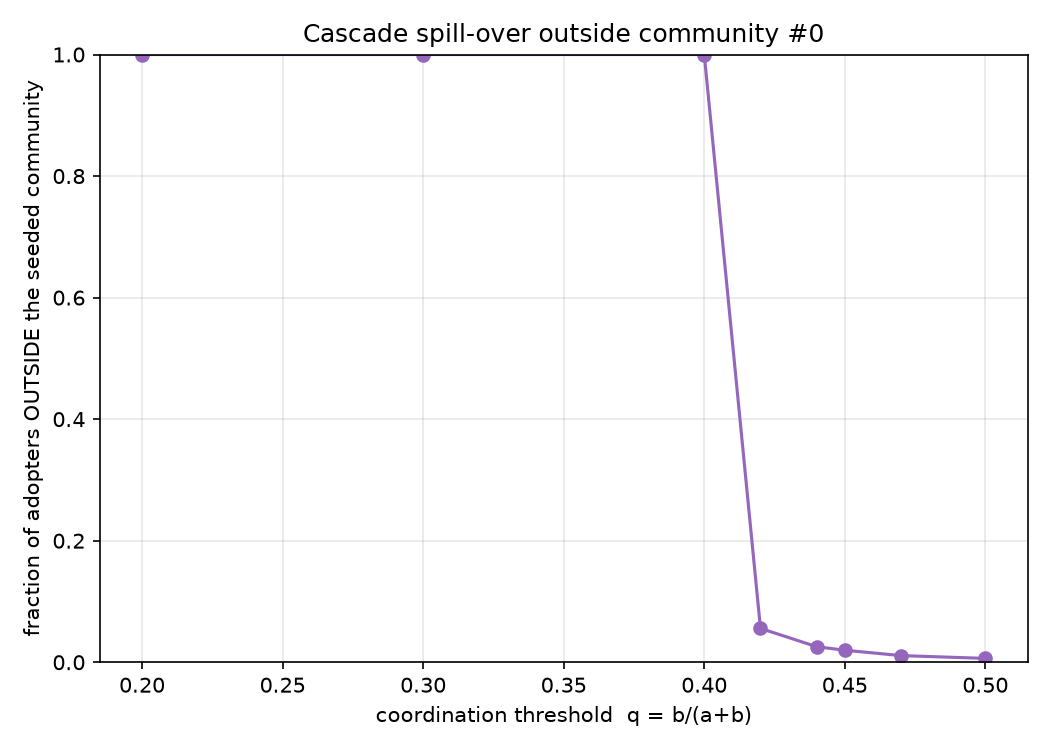
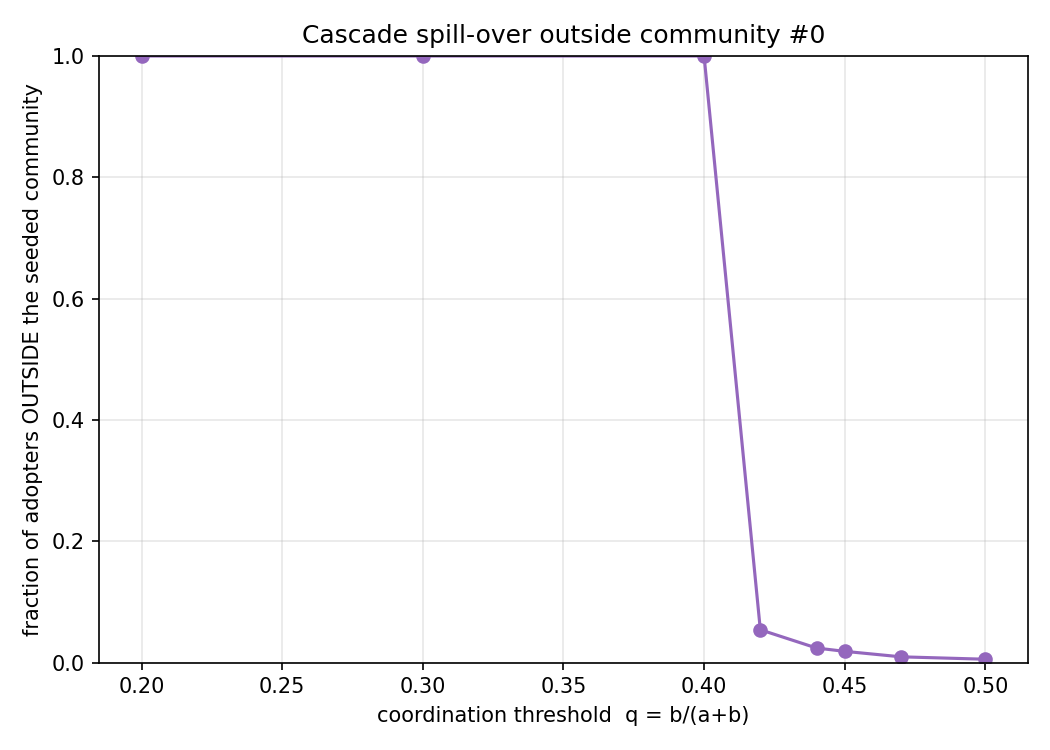
aggiornamento report

diff --git a/report/Part4OpenQuestion.tex b/report/Part4OpenQuestion.tex
@@ -17,24 +17,24 @@ SNA is combined with text mining, exploiting the post layer collected during cra
 \end{enumerate}
 
 \subsection{Results}
-The seven largest communities map onto sharply distinct disciplines (Table~\ref{tab:topics}): politics/news (trump, news, iran), climate/energy (climate, energy, ocean), chemistry/biology (nature, cell, chemistry), neuroscience (brain, neuroscience), conservation/ecology (species, biodiversity, marine), public health (health, vaccine, ebola) and space (nasa, space, moon). This structure--topic correspondence is only partial, however: a purely text-based clustering agrees with the Louvain partition at $\mathrm{NMI}=0.23$ and $\mathrm{ARI}=0.13$, clearly above chance yet far from identical, so following and talking are related but not interchangeable. Topical cohesion also varies by community: the tightest echo chambers are the specialised neuroscience ($0.071$) and conservation ($0.068$) clusters, the loosest the cross-cutting politics/news one ($0.054$). Connected accounts are markedly more similar: same-community pairs are $1.38\times$ more topically similar than cross-community pairs ($0.060$ vs $0.043$), and the endpoints of real follow edges are $1.83\times$ more similar than random non-edges ($0.086$ vs $0.047$). Both gaps are highly significant (one-sided Mann--Whitney $U$, $p<10^{-80}$ for communities and $p<10^{-200}$ for edges), and the full distributions (Figure~\ref{fig:homophily}) show the same ordering. The effect is not an artefact of the vectorisation: shrinking or enlarging the TF-IDF vocabulary from $3{,}000$ to $1{,}500$ or $5{,}000$ terms leaves both ratios essentially unchanged ($1.34$--$1.36\times$ for communities and $1.72$--$1.90\times$ for edges).
+The seven largest communities map onto sharply distinct disciplines (Table~\ref{tab:topics}): politics/news (trump, news, iran), climate/energy (climate, energy, ocean), chemistry/biology (nature, cell, chemistry), neuroscience (brain, neuroscience), conservation/ecology (species, biodiversity, marine), public health (health, vaccine, ebola) and space (nasa, space, moon). This structure--topic correspondence is only partial, however: a purely text-based clustering agrees with the Louvain partition at $\mathrm{NMI}=0.23$ and $\mathrm{ARI}=0.13$, clearly above chance yet far from identical, so following and talking are related but not interchangeable. Topical cohesion also varies by community (Table~\ref{tab:topics}, last column): the tightest echo chambers are the specialised neuroscience ($0.069$) and conservation ($0.068$) clusters, the loosest the cross-cutting politics/news ($0.053$) and space ($0.056$) ones. Connected accounts are markedly more similar: same-community pairs are $1.38\times$ more topically similar than cross-community pairs ($0.060$ vs $0.043$), and the endpoints of real follow edges are $1.83\times$ more similar than random non-edges ($0.086$ vs $0.047$). Both gaps are highly significant (one-sided Mann--Whitney $U$, $p<10^{-80}$ for communities and $p<10^{-200}$ for edges), and the full distributions (Figure~\ref{fig:homophily}) show the same ordering. The effect is not an artefact of the vectorisation: shrinking or enlarging the TF-IDF vocabulary from $3{,}000$ to $1{,}500$ or $5{,}000$ terms leaves both ratios essentially unchanged ($1.34$--$1.36\times$ for communities and $1.72$--$1.90\times$ for edges).
 
 \begin{table}[h]
   \centering\footnotesize
   \setlength{\tabcolsep}{4pt}
-  \caption{Representative TF-IDF terms of the seven largest Louvain communities, from the accounts' post text.}
+  \caption{Representative TF-IDF terms and intra-community topical cohesion (mean pairwise post-content cosine similarity) of the seven largest Louvain communities.}
   \label{tab:topics}
-  \begin{tabular}{ll}
+  \begin{tabular}{llc}
     \toprule
-    Community (topic) & Top TF-IDF terms \\
+    Community (topic) & Top TF-IDF terms & Cohesion \\
     \midrule
-    politics/news        & trump, news, iran \\
-    climate/energy       & climate, energy, ocean \\
-    chemistry/biology    & nature, cell, chemistry \\
-    neuroscience         & brain, neuroscience \\
-    conservation/ecology & species, marine, biodiversity \\
-    public health        & health, vaccine, ebola \\
-    space                & nasa, space, moon \\
+    politics/news        & trump, news, iran             & 0.053 \\
+    climate/energy       & climate, energy, ocean        & 0.064 \\
+    chemistry/biology    & nature, cell, chemistry       & 0.066 \\
+    neuroscience         & brain, neuroscience           & 0.069 \\
+    conservation/ecology & species, marine, biodiversity & 0.068 \\
+    public health        & health, vaccine, ebola        & 0.067 \\
+    space                & nasa, space, moon             & 0.056 \\
     \bottomrule
   \end{tabular}
 \end{table}

diff --git a/report/Part2NetworkCharacterization.tex b/report/Part2NetworkCharacterization.tex
@@ -49,7 +49,7 @@ The degree assortativity coefficient is slightly negative ($-0.07$), so the netw
 Estimated on the giant component via sampled BFS, the average shortest-path length is $\approx 2.23$ and the diameter (lower bound) is $\approx 4$. Despite 15{,}000 nodes, any two accounts are on average little more than two hops apart: the network is markedly small-world. The figure is close to the analytical ER estimate $\ln n / \ln \langle k\rangle \approx 1.8$, confirming that the high density and the hubs produce very short paths, a structural prerequisite for fast information diffusion (Section~\ref{sec:part3}).
 
 \subsection{Centrality analysis}
-Degree, betweenness (sampled), PageRank and eigenvector centrality largely agree on the top accounts (Table~\ref{tab:centrality}), the main exception being eigenvector centrality, which -- rewarding ties to other central nodes rather than raw popularity -- ranks the political hub \texttt{aoc} first and elevates journalism accounts such as \texttt{jamellebouie}. The platform account \texttt{bsky.app} tops the degree, betweenness and PageRank rankings, and overwhelmingly so for betweenness ($0.158$ vs $0.019$ for the runner-up), because almost every user follows it: it behaves as a global, non-thematic hub and could legitimately be treated as an outlier and removed. Below it appear the seed accounts (\texttt{carlbergstrom}, \texttt{science.org}, \texttt{standupforscience}) together with science journalists and outlets (\texttt{edyong209}, \texttt{nytimes.com}, \texttt{nature}). Notably, \texttt{science.org} climbs in the betweenness ranking, signalling a bridging role between otherwise separated thematic communities. The recurrence of political (\texttt{aoc}) and journalistic accounts among the most central nodes already hints at the overlap between science, journalism and politics on the platform.
+Degree, betweenness (sampled), PageRank and eigenvector centrality largely agree on the top accounts (Table~\ref{tab:centrality}), the main exception being eigenvector centrality, which -- rewarding ties to other central nodes rather than raw popularity -- ranks the political hub \texttt{aoc} first and elevates journalism accounts such as \texttt{jamellebouie}. The platform account \texttt{bsky.app} tops the degree, betweenness and PageRank rankings, and overwhelmingly so for betweenness ($0.158$ vs $0.019$ for the runner-up), because almost every user follows it: it behaves as a global, non-thematic hub and could legitimately be treated as an outlier and removed. Once it is set aside and the centralities are recomputed, the ranking is led by the seed academic \texttt{carlbergstrom} and by political, journalism and outlet hubs (\texttt{aoc}, \texttt{edyong209}, \texttt{nytimes.com}, the astronomer \texttt{astrokatie.com}, \texttt{science.org}), confirming that beyond the platform account centrality is dominated by academics, science journalists and outlets. Notably, \texttt{science.org} climbs in the betweenness ranking, signalling a bridging role between otherwise separated thematic communities. The recurrence of political (\texttt{aoc}) and journalistic accounts among the most central nodes already hints at the overlap between science, journalism and politics on the platform.
 
 
 \subsection{Comparison with ER}
@@ -103,6 +103,9 @@ Louvain yields the best partition (9 communities, modularity $0.428$). Infomap f
 \subsection{Agreement}
 NMI/ARI confirm the picture: Louvain vs Infomap show moderate agreement (NMI $=0.455$, ARI $=0.200$), they capture the same
 backbone at different resolutions, whereas any comparison with the degenerate LP partition is $0$.
+
+\subsection{Robustness}
+Being a stochastic heuristic, Louvain was validated over 10 independent runs: it consistently returns $8$--$9$ communities with modularity $0.426\pm0.002$ (range $0.422$--$0.428$), and the partitions agree pairwise at $\mathrm{NMI}=0.85$. The modular structure is therefore stable across runs, so the partition adopted here (and released with the data) is representative rather than a lucky draw.
 
 \subsection{Semantic interpretation}
 Using node attributes (bio, display name),

diff --git a/report/Part3NetworkManipulationAndAnalysis.tex b/report/Part3NetworkManipulationAndAnalysis.tex
@@ -77,8 +77,9 @@ The novel, semantic ingredient uses the text-derived topical groups. Fixing $q=0
 
 \begin{figure}[h]
   \centering
-  \includegraphics[width=\linewidth]{figures/game_community_barriers_detail.png}
-  \caption{Per-community adoption when seeding a single community at $q=0.45$: the cascade is confined to the seeded community (red)}
+  \includegraphics[width=0.49\linewidth]{figures/game_community_barriers.png}\hfill
+  \includegraphics[width=0.49\linewidth]{figures/game_community_barriers_detail.png}
+  \caption{Communities as diffusion barriers. Left: the spill-over outside the seeded community stays at $100\%$ for $q\le0.40$ and collapses sharply once $q$ exceeds $\approx0.41$. Right: at $q=0.45$ the cascade stays confined to the seeded community (red).}
   \label{fig:game-bar}
 \end{figure}
 
